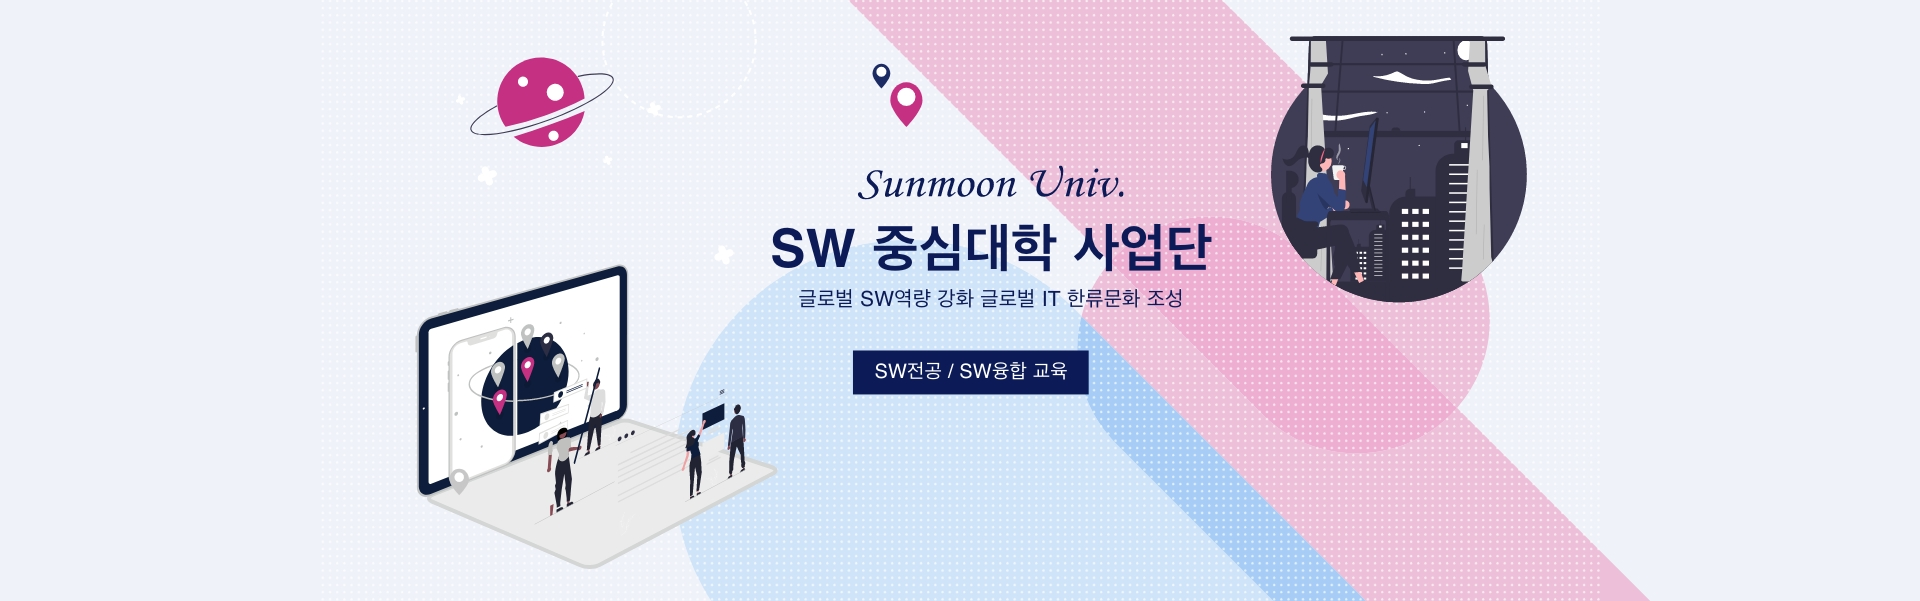
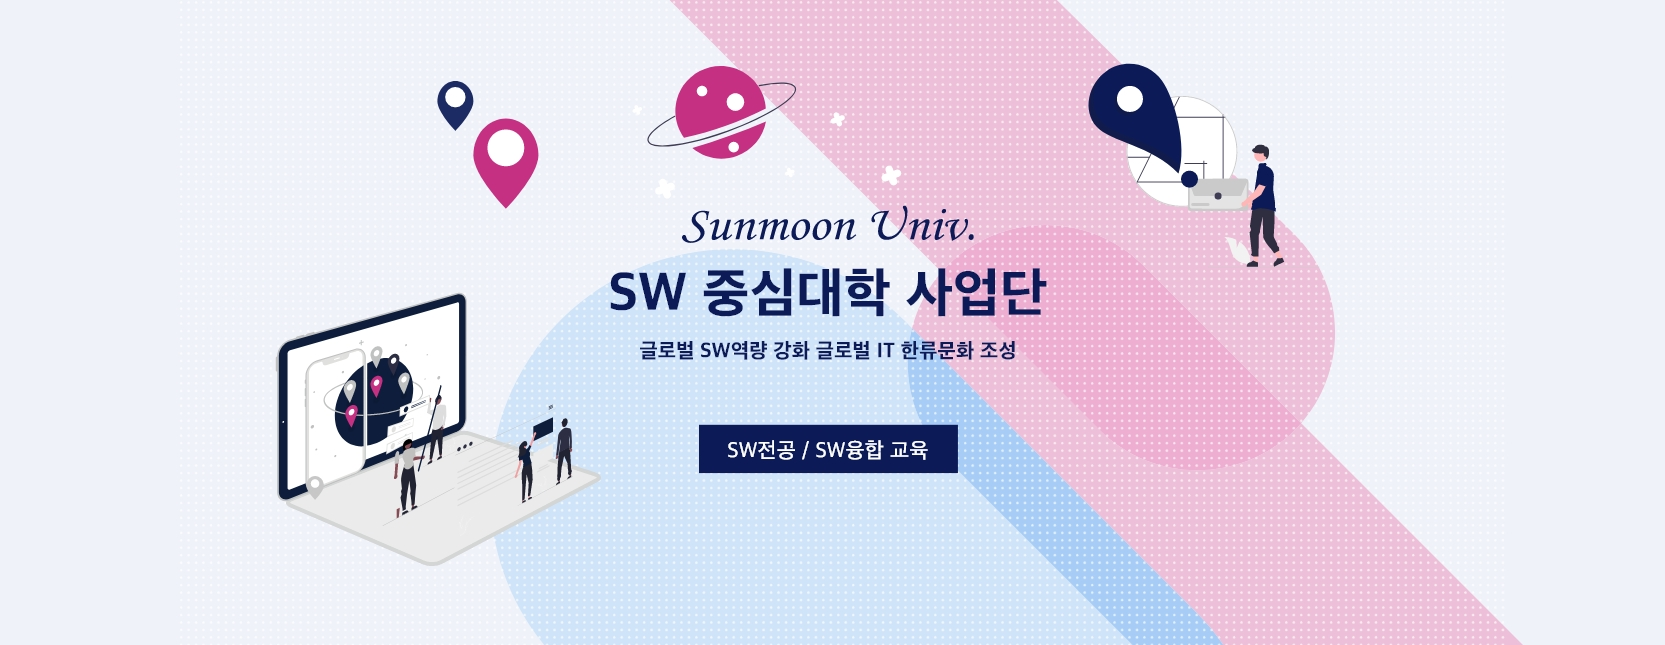
up

diff --git a/src/pages/Home/components/HomeBanner/index.tsx b/src/pages/Home/components/HomeBanner/index.tsx
@@ -63,16 +63,6 @@ const HomeBanner: React.VFC = () => {
           />
         </ImageBox>
         <ImageBox>
-          <CoverContentBox>
-            <CoverContent className="first-content">Sunmoon Univ.</CoverContent>
-            <CoverContent className="second-content">
-              SW 중심대학사업단
-            </CoverContent>
-            <CoverContent className="third-content">
-              글로벌 SW역량 강화 글로벌 IT 한류문화 조성
-            </CoverContent>
-          </CoverContentBox>
-          <Cover />
           <Image
             src={
               size.width > 375 ? "img/banner2.jpeg" : "img/mobileBanner2.jpeg"
@@ -106,22 +96,8 @@ const ImageBox = styled.div`
 `;
 
 const Image = styled.img`
-  height: 100%;
+  height: 400px;
   object-fit: contain;
-`;
-
-const Cover = styled.div`
-  ${mediaQueries(BREAKPOINT_BIGGER_THAN_PC)} {
-    width: 100%;
-    max-width: 1920px;
-    height: 250px;
-    background-color: darkgray;
-    opacity: 0.5;
-    position: absolute;
-    top: 30%;
-    display: flex;
-    z-index: 2;
-  }
 `;
 
 export const CoverContent = styled.span`

diff --git a/src/pages/Admin/EditImageBoardPage/index.tsx b/src/pages/Admin/EditImageBoardPage/index.tsx
@@ -10,8 +10,8 @@ import {
   getBoardById_getBoardById_data_files,
   getBoardById_getBoardById_data_images,
 } from "../../../typings/api";
-import { useLazyQuery, useMutation, useQuery } from "@apollo/client";
-import { GET_BOARD, GET_BOARD_BY_ID } from "../../../queries/sharedQuery";
+import { useMutation, useQuery } from "@apollo/client";
+import { GET_BOARD_BY_ID } from "../../../queries/sharedQuery";
 import useInput from "../../../hooks/useInput";
 import { Button } from "../EditBoardPage/styles";
 import {

diff --git a/src/pages/Admin/ImageBoardPage/index.tsx b/src/pages/Admin/ImageBoardPage/index.tsx
@@ -138,11 +138,7 @@ const ImageBoardPage: React.VFC = () => {
             <Typography.Text>링크가 없습니다</Typography.Text>
           )}
         </Descriptions.Item>
-        <Descriptions.Item
-          label="첨부파일"
-          span={4}
-          labelStyle={{ width: 100 }}
-        >
+        <Descriptions.Item label="파일" span={4} labelStyle={{ width: 100 }}>
           {file && file.length ? (
             file.map((elem, idx) => {
               return (

diff --git a/src/pages/Admin/BoardDetail/index.tsx b/src/pages/Admin/BoardDetail/index.tsx
@@ -10,7 +10,7 @@ import {
   getBoardById_getBoardById_data_files,
   getBoardById_getBoardById_data_images,
 } from "../../../typings/api";
-import { Descriptions, Typography, Carousel, Radio } from "antd";
+import { Descriptions, Typography, Carousel } from "antd";
 import { Button, CarouselDiv, Container } from "./styles";
 import { DELETE_BOARD } from "../../../queries/adminQuery";
 import { toast } from "react-toastify";
